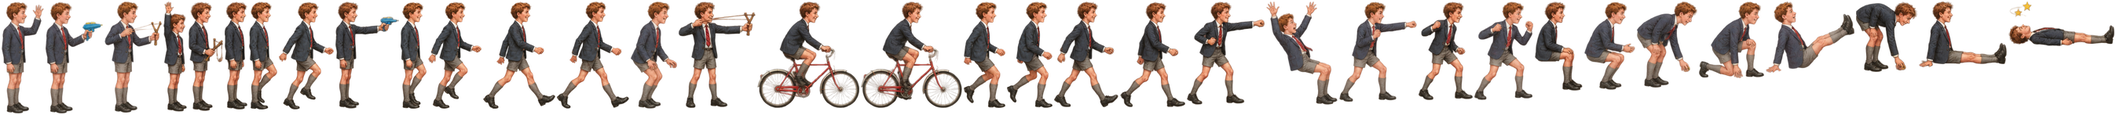
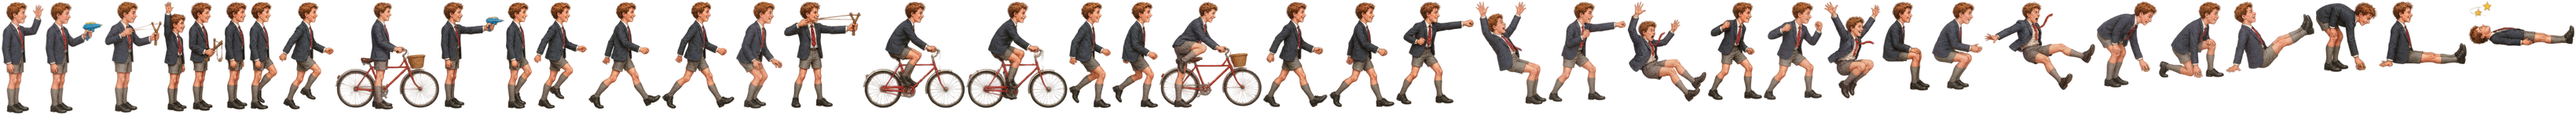
Modern view: in-between pictures for the bike, the kiss and scripted flights
- Eric holds the bike and swings a leg over when mounting and dismounting, crouches
  when standing up on the saddle, leaps on the way up over the gate and flails on
  the way down from a window (the renderer reads that his controller is a Flight).
- Hayley steps in and puts her arms round him before the kiss, and has a half-raised
  arm for the refusal.
- Pedalling no longer counts as a change of pose; in-between pictures face the way
  the pose they belong to faces.

Claude-Session: https://claude.ai/code/session_01EMDvyUd3nesff2NM9yEVEq

diff --git a/src/render/motion.js b/src/render/motion.js
@@ -19,7 +19,11 @@
 //     or two in-between pictures (crouching on the way to a chair, tipping
 //     over on the way to the floor); where a character has no such pictures
 //     the old pose is reported for a moment so the painter can blend the two;
-//   * Eric's jump rises fast and slows at the top, like a real one.
+//   * Eric's jump rises fast and slows at the top, like a real one;
+//   * while the engine is running one of its scripted flights (out of a
+//     window, over the gate) it reports whether he is rising or falling, so
+//     the painter can show him leaping or flailing instead of standing to
+//     attention in mid-air.
 //
 // Nothing here changes the game: the engine never reads these numbers.
 // ============================================================================
@@ -57,12 +61,24 @@ const SEQUENCES = {
   'BENDING_OVER>STAND': ['BENDING_A'],
   'STAND>WATERPISTOL': ['WATERPISTOL_A'],
   'WATERPISTOL>STAND': ['WATERPISTOL_A'],
+  // The bike: 'RIDE' is either pedalling picture. Getting on and off passes
+  // through holding the bike and swinging a leg over; the 'UP' and 'DOWN'
+  // entries are standing up on the saddle and sitting back down (the same
+  // change of pose, but Eric moves a row), which pass through a crouch.
+  'STAND>RIDE': ['MOUNT_A', 'MOUNT_B'],
+  'RIDE>STAND': ['MOUNT_B', 'MOUNT_A'],
+  'RIDE>STAND:UP': ['SIT_B'],
+  'STAND>RIDE:DOWN': ['SIT_B'],
+  // The kiss (Hayley's sheet: both of them are in these pictures, because
+  // the engine hides Eric for the length of it).
+  'STAND>KISSING_ERIC': ['KISS_A', 'KISS_B'],
+  'KISSING_ERIC>STAND': ['KISS_B', 'KISS_A'],
 };
 // How long each picture of a sequence is held: falls and sitting are
 // unhurried, a punch or a raised arm is over in a blink.
 const STEP_MS = 72, QUICK_STEP_MS = 44;
 const QUICK = /HITTING|ARM_UP|CATAPULT|WATERPISTOL|BENDING/;
-const poseKind = (state) => (WALK_STATES.has(state) ? 'STAND' : state);
+const poseKind = (state) => (WALK_STATES.has(state) ? 'STAND' : (state === 'RIDING_BIKE0' || state === 'RIDING_BIKE1' ? 'RIDE' : state));
 
 const easeOut = (k) => 1 - (1 - k) * (1 - k);
 const easeIn = (k) => k * k;
@@ -133,14 +149,28 @@ export class Motion {
     }
     tr.seen = now;
 
+    // ---- Scripted flights ---------------------------------------------------------
+    // Eric's controller is a Flight (it carries its list of phases) while he
+    // drops from a window or sails over the gate.
+    const flying = !!(thing.controller && thing.controller.phases);
+    const rise = tr.toY - tr.fromY;
+    const air = smooth && flying && walkState && Math.abs(rise) > 0.01 && tr.y !== tr.toY ? (rise < 0 ? 'up' : 'down') : null;
+    if (tr.lastY === undefined) tr.lastY = thing.y;
+
     // ---- Pose changes ----------------------------------------------------------
     if (state !== tr.state) {
       const bothWalking = walkState && WALK_STATES.has(tr.state);
       if (!bothWalking && thing.visible) {
         tr.prevState = tr.state; tr.prevDir = tr.dir ?? thing.direction; tr.stateT = now;
-        // Is there a run of in-between pictures for this change?
-        const mids = smooth ? SEQUENCES[`${poseKind(tr.state)}>${poseKind(state)}`] : null;
-        tr.seq = mids ? { frames: [WALK_STATES.has(tr.state) ? 'WALK0' : tr.state, ...mids, null], t0: now, step: QUICK.test(mids[0]) ? QUICK_STEP_MS : STEP_MS, needs: mids[0] } : null;
+        // Is there a run of in-between pictures for this change? (Not during
+        // a scripted flight, where poses change every tick.)
+        const from = poseKind(tr.state), to = poseKind(state);
+        const row = thing.y < tr.lastY ? ':UP' : (thing.y > tr.lastY ? ':DOWN' : '');
+        const mids = smooth && !flying && from !== to ? (SEQUENCES[`${from}>${to}${row}`] || SEQUENCES[`${from}>${to}`]) : null;
+        // The in-between pictures face the way the pose they belong to faces:
+        // leaving a pose (X to standing) that is the old direction, otherwise the new one.
+        tr.seq = mids ? { frames: [WALK_STATES.has(tr.state) ? 'WALK0' : tr.state, ...mids, null], t0: now, step: QUICK.test(mids[0]) ? QUICK_STEP_MS : STEP_MS, needs: mids[0],
+          fromDir: tr.prevDir, midDir: to === 'STAND' ? tr.prevDir : thing.direction } : null;
       }
       tr.state = state;
     }
@@ -150,7 +180,10 @@ export class Motion {
     if (tr.seq) {
       const at = (now - tr.seq.t0) / tr.seq.step, i = Math.floor(at);
       if (i >= tr.seq.frames.length - 1) tr.seq = null;
-      else seq = { a: tr.seq.frames[i], b: tr.seq.frames[i + 1], k: at - i, needs: tr.seq.needs };
+      else {
+        const dirOf = (j) => (j === 0 ? tr.seq.fromDir : (j === tr.seq.frames.length - 1 ? thing.direction : tr.seq.midDir));
+        seq = { a: tr.seq.frames[i], b: tr.seq.frames[i + 1], k: at - i, needs: tr.seq.needs, dirA: dirOf(i), dirB: dirOf(i + 1) };
+      }
     }
     tr.dir = thing.direction;
     const fadeK = (now - tr.stateT) / FADE_MS;
@@ -161,8 +194,9 @@ export class Motion {
     const phase = ((((tr.x * thing.direction) % CYCLE_CELLS) + CYCLE_CELLS) % CYCLE_CELLS) / CYCLE_CELLS;
     const cycle = Math.round(phase * CYCLE_FRAMES) % CYCLE_FRAMES;
 
+    tr.lastY = thing.y;
     tr.frame = now;
-    tr.out = { x: tr.x, y: tr.y, walkState, moving, walking: walkState && moving, cycle, fade, seq };
+    tr.out = { x: tr.x, y: tr.y, walkState, moving, walking: walkState && moving, cycle, fade, seq, air };
     return tr.out;
   }
 }

diff --git a/src/render/renderer.js b/src/render/renderer.js
@@ -264,18 +264,20 @@ export class Renderer {
     people.sort((a, b) => a.lane - b.lane);     // stable: equal lanes keep the engine's order (Eric last)
     const drawOne = ({ d, m, lane }) => {
       const x = m.x * C, y = m.y * C + lane * LANE_STEP;
-      if (d.group !== 'OBJ' && d.isStanding?.()) p.drawShadow(ctx, x, y);
+      if (d.group !== 'OBJ' && d.isStanding?.() && !m.air) p.drawShadow(ctx, x, y);
       // Which picture: the walk cycle while gliding, the standing pose at
       // rest, otherwise whatever pose the engine says.
       let state = d.animatoryState;
       if (cycles && m.walkState && p.hasCycle(d.group, d.look)) state = m.walking ? `CYCLE${m.cycle}` : 'WALK0';
+      // In mid-air on a scripted flight: leaping on the way up, flailing on the way down.
+      if (m.air && p.hasFrame && p.hasFrame(d.group, 'DROP_A', d.look)) state = m.air === 'up' ? 'LEAP' : (Math.floor(this.lastDraw / 120) % 2 ? 'DROP_B' : 'DROP_A');
       if (m.seq && p.hasFrame && p.hasFrame(d.group, m.seq.needs, d.look)) {
         // A change of pose with in-between pictures: show the current one and,
         // in the second half of its time, bring the next one in over it.
-        p.drawSprite(ctx, d.group, m.seq.a || state, d.direction, d.look, x, y);
+        p.drawSprite(ctx, d.group, m.seq.a || state, m.seq.dirA, d.look, x, y);
         if (m.seq.k > 0.5) {
           ctx.globalAlpha = (m.seq.k - 0.5) * 2;
-          p.drawSprite(ctx, d.group, m.seq.b || state, d.direction, d.look, x, y);
+          p.drawSprite(ctx, d.group, m.seq.b || state, m.seq.dirB, d.look, x, y);
           ctx.globalAlpha = 1;
         }
         return;
